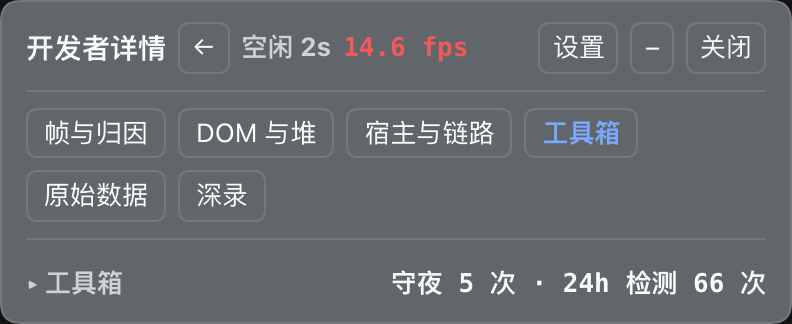
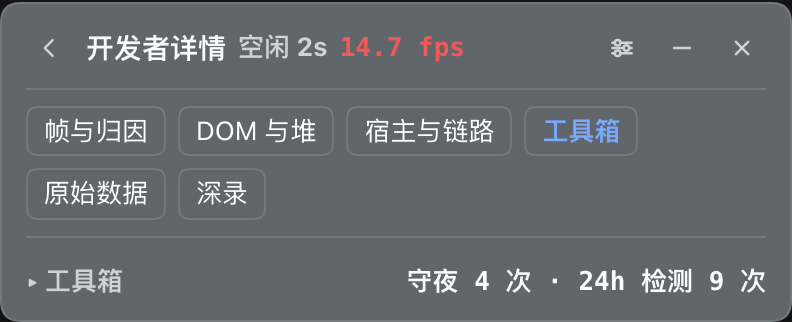
feat(client): 主界面重排成大数 + 帧条 + 事故块 + 趋势行
- 撤掉「当前状态 / 近 60 秒帧分布 / 最近一次卡顿 / 可能原因 / 最近 1 小时」五个眉标,
  层级交给 46px 大数、2px 色条与分隔线
- 60 秒帧条提到主界面(一格一秒,点得动),帧分布压成 3×2 的占比格
- 事故块:耗时用 ms(与详情页统一)、原因缩进挂在它下面、导出与「?」并到同一行
- 趋势窗口从「→ 最近 24 小时」按钮改成两格分段控件
- 删掉五个因此没人引用的词典键;更新验收器(图标按钮按 aria-label/title 找)

diff --git a/client.ui.js b/client.ui.js
@@ -210,6 +210,7 @@ window.__ModuleLoader__.load({
 			next: [['path', { d: 'M6.5 3.5L11 8l-4.5 4.5' }]],
 			copy: [['rect', { x: 5.5, y: 5.5, width: 7, height: 7, rx: 1.4 }], ['path', { d: 'M10.5 3.5h-6a1 1 0 00-1 1v6' }]],
 			download: [['path', { d: 'M8 2.5v7M5 6.8L8 9.8l3-3M3 11.5v1.2h10v-1.2' }]],
+			chev: [['path', { d: 'M6 3.5l4.5 4.5L6 12.5' }]],
 		};
 		function panelIcon(name, size) {
 			const spec = ICONS[name] ?? [];
@@ -267,71 +268,73 @@ window.__ModuleLoader__.load({
 			const trendMs = props.trendMs;
 			const trendRaw = trendRawText(trendMs);
 			// 60 秒帧分布:守夜只收 ≥100ms 的事故,"每帧 50ms 的 20fps 段"一条都不会触发。
-			// 独立一块 + 五行表:一条长串塞进 396px 只会被浏览器在 `16.7–` 中间乱断。
 			const mix = frameMixNow();
 			const mixRows = frameMixRows(mix);
-			const kids = [
-				h('div', { style: S.block, title: health.reason === '' ? t('healthHint') : health.reason },
-					h('div', { style: S.blockLabel }, t('mainStatus')),
-					h('div', {
-						style: {
-							...S.blockValue,
-							color: health.level === 'ok' ? 'var(--dsw-alias-state-success-primary)'
-								: health.level === 'stall' ? 'var(--dsw-alias-state-warn-primary)' : 'var(--dsw-alias-label-secondary)',
-						},
-					}, `${healthIcon(health.level)} ${healthText(health.level)} · ${health.fps.toFixed(0)} fps${health.reason === '' ? '' : ` · ${health.reason}`}`)),
-			];
-			// 帧分布:每档一行(标签 / 条数 / 占比),数字右对齐、等宽数字,读起来是张表而不是一句话
-			kids.push(h('div', { style: S.sep, title: t('frameMixHint') },
-				h('div', { style: S.blockLabel }, mix === null
-					? t('frameMix')
-					: `${t('frameMix')} · ${frameMixCountText(mix.total)}${t('framesUnit')}`),
-				mix === null
-					? h('div', { style: { ...S.sub, marginTop: 2 } }, t('frameMixEmpty'))
-					: h('div', { style: { marginTop: 2 } }, mixRows.map((item) => h('div', {
-						key: item.label,
-						style: { display: 'flex', gap: 8, alignItems: 'baseline', lineHeight: 1.5, fontSize: 12 },
-					},
-						h('span', { style: { flex: '0 0 72px', color: 'var(--dsw-alias-label-secondary)', fontVariantNumeric: 'tabular-nums' } }, item.label),
-						h('span', { style: { flex: '1 1 auto' } }),
-						h('span', { style: { flex: '0 0 56px', textAlign: 'right', fontVariantNumeric: 'tabular-nums' } }, item.countText),
-						h('span', { style: { flex: '0 0 64px', textAlign: 'right', fontVariantNumeric: 'tabular-nums' } }, item.pctText))))));
-			// 最近一次卡顿:持续时间 / 何时 / 现场留没留住
+			const kids = [];
+
+			// ① 当前帧率:这一屏唯一的大数。状态词退到它下面,而且**只在不是 ok 时**出现 ——
+			//    "健康"两个字只是把绿颜色再说一遍。
+			kids.push(h('div', { style: S.heroBlock, title: health.reason === '' ? t('healthHint') : health.reason },
+				h('div', { style: { ...S.heroNum, color: levelFrame(state.fps, state.frameWorst) } },
+					state.fps.toFixed(1), h('span', { style: S.heroUnit }, 'fps')),
+				health.level === 'ok' ? null : h('div', { style: S.heroState },
+					`${healthIcon(health.level)} ${healthText(health.level)}${health.reason === '' ? '' : ` · ${health.reason}`}`)));
+
+			// ② 60 秒帧条(一格一秒;点得动 —— 只有真能跳到那一格的长帧才给手型)。
+			kids.push(h('div', { style: S.stripWrap, title: t('sparkHint') }, sparkStrip()));
+
+			// ③ 帧分布:帧条的合计。占比在前、档位与条数在后,六格两行 —— 不再是一条 44 字的长串。
+			kids.push(mix === null
+				? h('div', { style: S.mixEmpty }, t('frameMixEmpty'))
+				: h('div', { style: S.mixGrid, title: t('frameMixHint') },
+					mixRows.map((item) => h('div', { key: item.label, style: S.mixCell },
+						h('b', { style: S.mixPct }, item.pctText),
+						h('span', { style: S.mixLabel }, `${item.label} · ${item.countText}`)))));
+
+			// ④ 最近一次卡顿:主角是"多久";原因缩进挂在它下面 —— 从属关系由位置表达,
+			//    不再写「最近一次卡顿 / 可能原因」两个眉标。
 			if (row === null) {
-				kids.push(h('div', { style: S.sep },
-					h('div', { style: S.blockLabel }, t('mainLast')),
-					h('div', { style: { ...S.blockValue, color: 'var(--dsw-alias-label-secondary)' } }, t('noStallYet'))));
+				kids.push(h('div', { style: S.emptyRow }, t('noStallYet')));
 			} else {
 				const level = severityLevel(row.severity);
-				kids.push(h('div', { style: S.sep },
-					h('div', { style: S.blockLabel }, t('mainLast')),
-					h('div', { style: { display: 'flex', alignItems: 'baseline', gap: 8, flexWrap: 'wrap' } },
-						h('span', { style: { ...S.hero, color: severityColor(level) } }, secondsText(row.severity)),
-						h('span', { style: { ...S.label, color: severityColor(level) } }, severityText(level))),
-					h('div', { style: S.sub }, lastStallSubText(row)),
-					h('div', { style: S.buttons },
-						h('button', { type: 'button', style: S.btn, onClick: () => props.onOpen(row.id) }, t('viewThisStall')),
-						// 这是**给 AI 的那条路**:先出预览(写明脱了什么),再生成
-						h('button', { type: 'button', style: S.btn, title: t('exportAiHint'), onClick: () => props.onExportPreview(row.id) }, t('exportReport')))));
-			}
-			// 可能原因:最多 3 条。**普通用户看到的只有"线索类别 + 强度"** ——
-			// 原始包名 / 毫秒 / 支持证据收进「为什么这样判断?」展开区(要查的时候够得着)。
-			// 展开区里那句限制一直在:不编模块功能,也不把相关写成根因。
-			kids.push(h('div', { style: S.sep },
-				h('div', { style: S.blockLabel }, t('mainCause')),
-				causes.length === 0
-					? h('div', { style: { ...S.blockValue, color: 'var(--dsw-alias-label-secondary)' } }, row === null ? t('noCauseYet') : t('packNoCandidate'))
-					: h('div', null, causes.map((item, index) => h('div', { key: `${index}-${item.kind}`, style: S.block },
-						h('div', { style: S.blockLabel }, `${index + 1}. ${causePlainLead(item)} · ${strengthText(item.strength)}`),
-						props.why !== true ? null : h('div', null,
+				const color = severityColor(level);
+				kids.push(h('div', {
+					style: { ...S.incBlock, borderLeftColor: color },
+					title: t('viewThisStall'),
+					onClick: () => props.onOpen(row.id),
+				},
+					h('div', { style: S.incMain },
+						h('span', { style: { ...S.incDur, color } },
+							String(Math.round(row.severity)), h('span', { style: S.incUnit }, 'ms')),
+						h('span', { style: { ...S.incSev, color } }, severityText(level)),
+						h('span', { style: S.incMeta }, lastStallSubText(row)),
+						h('button', {
+							type: 'button', className: 'picon', style: S.iconBtnSmall,
+							title: t('causeWhyHint'),
+							'aria-label': props.why === true ? t('causeWhyHide') : t('causeWhy'),
+							onClick: (event) => { event.stopPropagation(); props.onWhy(props.why !== true); },
+						}, props.why === true ? '–' : '?'),
+						h('button', {
+							type: 'button', className: 'picon', style: S.iconBtnSmall, title: t('exportAiHint'),
+							'aria-label': t('exportReport'),
+							onClick: (event) => { event.stopPropagation(); props.onExportPreview(row.id); },
+						}, panelIcon('download')),
+						panelIcon('chev', 12)),
+					h('div', { style: S.causes },
+						causes.length === 0
+							? h('div', { style: S.cause }, row === null ? t('noCauseYet') : t('packNoCandidate'))
+							: causes.map((item, index) => h('div', { key: `${index}-${item.kind}`, style: S.cause },
+								h('span', { style: S.causeN }, String(index + 1)),
+								h('span', { style: S.causeText }, causePlainLead(item)),
+								h('span', { style: S.causeStrength }, strengthText(item.strength)))),
+						// 原始线索(包名 / 毫秒 / 证据 / 限制)仍然够得着:一个小 ? 按钮,不占正文。
+						props.why === true ? causes.map((item, index) => h('div', { key: `why-${index}`, style: { ...S.sub, marginTop: 4 } },
 							h('div', { style: { ...S.sub, color: 'var(--dsw-alias-label-secondary)' } }, t('causeRawNote')),
 							h('div', { style: { ...S.sub, fontFamily: MONO_FONT } }, `${item.lead}${item.name === null ? '' : ` · ${short(item.name)}`} · ${t('packProvenance')}:${provenanceText(item.provenance)}`),
-							// 支持 / 限制各占一行:塞进一行会被折在词中间(§5「长文本用块式」)
 							h('div', { style: S.sub }, `${t('packSupport')}:${item.basis.join(' / ')}`),
-							h('div', { style: S.sub }, `${t('packLimits')}:${item.limits.join(' / ')}`))))),
-				causes.length === 0 ? null : h('div', { style: S.buttons },
-					h('button', { type: 'button', style: S.btn, title: t('causeWhyHint'), onClick: () => props.onWhy(props.why !== true) },
-						props.why === true ? t('causeWhyHide') : t('causeWhy')))));
+							h('div', { style: S.sub }, `${t('packLimits')}:${item.limits.join(' / ')}`))) : null,
+						)));
+			}
 			// 分享前预览:还没生成文件,先把"包含什么 / 脱了什么 / 少了什么"摊出来
 			if (props.preview !== null && props.preview !== undefined) {
 				const preview = props.preview;
@@ -345,19 +348,26 @@ window.__ModuleLoader__.load({
 						h('button', { type: 'button', style: S.btn, onClick: () => props.onExportGo() }, t('previewGo')),
 						h('button', { type: 'button', style: S.btn, onClick: () => props.onExportCancel() }, t('previewCancel')))));
 			}
-			// 最近趋势:次数 / 最长一次 / 重复线索 —— 窗口可切(1 小时 / 24 小时)
-			kids.push(h('div', { style: S.sep },
-				h('div', { style: { ...S.row, marginTop: 0 } },
-					h('span', { style: S.label }, trendMs === TALLY_TREND_LONG_MS ? t('mainTrend24') : t('mainTrend1')),
-					h('button', { type: 'button', style: S.btn, title: t('trendSwitchHint'), onClick: () => props.onRange(trendMs === TALLY_TREND_LONG_MS ? TALLY_TREND_SHORT_MS : TALLY_TREND_LONG_MS) },
-						`→ ${trendMs === TALLY_TREND_LONG_MS ? t('mainTrend1') : t('mainTrend24')}`)),
-				h('div', { style: S.blockValue, title: t('trendHint') }, trendText(trendMs)),
-				props.why !== true ? null : (trendRaw === null ? null : h('div', { style: { ...S.sub, fontFamily: MONO_FONT } }, trendRaw)),
-				h('div', { style: S.sub }, t('trendScope'))));
-			// 入口:只留一个 —— 「设置」在标题栏里常驻(每个视图都在),主界面再放一个就是同一个动作
-			// 在同屏出现两次。
-			kids.push(h('div', { style: { ...S.sep, display: 'flex', gap: 8, flexWrap: 'wrap' } },
-				h('button', { type: 'button', style: S.btn, title: t('devEntryHint'), onClick: () => props.onDev() }, t('devEntry'))));
+			// ⑤ 最近趋势:次数 / 最长一次 / 重复线索。窗口切换改成两格分段控件,
+			//    原来是"→ 最近 24 小时"这种带箭头的文字按钮(它把"当前"和"目标"写在同一个位置上)。
+			kids.push(h('div', { style: S.trendRow, title: t('trendScope') },
+				h('span', { style: S.trendText }, trendText(trendMs)),
+				h('div', { style: S.seg },
+					h('button', {
+						type: 'button', style: { ...S.segItem, ...(trendMs !== TALLY_TREND_LONG_MS ? S.segOn : null) },
+						title: t('mainTrend1'), onClick: () => props.onRange(TALLY_TREND_SHORT_MS),
+					}, t('mainTrend1')),
+					h('button', {
+						type: 'button', style: { ...S.segItem, ...(trendMs === TALLY_TREND_LONG_MS ? S.segOn : null) },
+						title: t('mainTrend24'), onClick: () => props.onRange(TALLY_TREND_LONG_MS),
+					}, t('mainTrend24')))));
+			if (props.why === true && trendRaw !== null) {
+				kids.push(h('div', { style: { ...S.sub, fontFamily: MONO_FONT } }, trendRaw));
+			}
+			// 入口:只留一个 —— 「设置」在标题栏里常驻(每个视图都在),主界面再放一个就是同一个动作。
+			kids.push(h('div', { style: S.linkRow },
+				h('button', { type: 'button', style: S.linkBtn, title: t('devEntryHint'), onClick: () => props.onDev() },
+					t('devEntry'), panelIcon('chev', 11))));
 			return kids;
 		}
 		/**
@@ -1231,7 +1241,7 @@ window.__ModuleLoader__.load({
 					h('span', { style: S.brand, title: t('title') }, view === 'main' ? t('title') : viewTitle),
 					// 场景标签与标题一样是**文字**,一样可以让位(先出省略号):不变的是控件。
 					h('span', { style: { ...S.label, color: scene.color, flex: '0 1 auto', minWidth: 0, overflow: 'hidden', textOverflow: 'ellipsis' } }, scene.text),
-					h('span', { style: { ...S.num, flex: '0 0 auto', color: levelFrame(state.fps, state.frameWorst) } }, `${state.fps.toFixed(1)} fps`)),
+					view === 'main' ? null : h('span', { style: { ...S.num, flex: '0 0 auto', color: levelFrame(state.fps, state.frameWorst) } }, `${state.fps.toFixed(1)} fps`)),
 				h('div', { style: S.headRight },
 					h('button', { type: 'button', className: 'picon', style: S.iconBtn, title: t('settingsHint'), 'aria-label': t('viewSettings'), onClick: () => setView(view === 'settings' ? 'main' : 'settings') }, panelIcon('sliders')),
 					h('button', { type: 'button', className: 'picon', style: S.iconBtn, title: open ? t('collapse') : t('expand'), 'aria-label': open ? t('collapse') : t('expand'), onClick: toggle }, panelIcon(open ? 'minus' : 'plus')),

diff --git a/client.js b/client.js
@@ -3188,6 +3188,45 @@ window.__ModuleLoader__.load({
 			},
 			cardTitle: { color: 'var(--dsw-alias-label-primary)', fontWeight: 700, fontSize: 13, marginBottom: 2 },
 			buttons: { display: 'flex', gap: 8, marginTop: 7, flexWrap: 'wrap' },
+			// ── 主界面(2026-10-24 改版):大数 + 帧条 + 事故块 + 趋势,眉标全部撤掉 ──
+			heroBlock: { marginTop: 10 },
+			heroNum: {
+				display: 'flex', alignItems: 'baseline', gap: 7, fontFamily: MONO_FONT,
+				fontWeight: 600, fontSize: 46, lineHeight: 0.94, letterSpacing: '-0.03em', fontVariantNumeric: 'tabular-nums',
+			},
+			heroUnit: { fontSize: 11, fontWeight: 600, letterSpacing: '0.08em', color: 'var(--dsw-alias-label-secondary)' },
+			heroState: { marginTop: 6, fontSize: 11, color: 'var(--dsw-alias-label-secondary)' },
+			// 帧条下面压一条基准线:数据稀疏(刚刷新)时,没有它那几根柱子会像浮在空中的色块。
+			stripWrap: { marginTop: 11, borderBottom: '1px solid var(--dsw-alias-border-l2)', paddingBottom: 3 },
+			mixGrid: { display: 'grid', gridTemplateColumns: '1fr 1fr 1fr', gap: '5px 8px', marginTop: 10 },
+			mixCell: { display: 'flex', alignItems: 'baseline', gap: 5, minWidth: 0 },
+			mixPct: { fontFamily: MONO_FONT, fontSize: 12, fontWeight: 600, fontVariantNumeric: 'tabular-nums', color: 'var(--dsw-alias-label-primary)' },
+			mixLabel: { fontSize: 10, color: 'var(--dsw-alias-label-secondary)', whiteSpace: 'nowrap', overflow: 'hidden', textOverflow: 'ellipsis' },
+			mixEmpty: { marginTop: 10, fontSize: 11, color: 'var(--dsw-alias-label-secondary)' },
+			incBlock: { marginTop: 14, borderLeft: '2px solid transparent', paddingLeft: 11, cursor: 'pointer' },
+			incMain: { display: 'flex', alignItems: 'baseline', gap: 7 },
+			incDur: { fontFamily: MONO_FONT, fontSize: 24, fontWeight: 600, letterSpacing: '-0.02em', fontVariantNumeric: 'tabular-nums', lineHeight: 1.1 },
+			incSev: { fontSize: 11, fontWeight: 600 },
+			incUnit: { fontSize: 13, fontWeight: 600, marginLeft: 1, color: 'var(--dsw-alias-label-secondary)' },
+			incMeta: { marginLeft: 'auto', fontSize: 10, color: 'var(--dsw-alias-label-secondary)', fontVariantNumeric: 'tabular-nums', whiteSpace: 'nowrap' },
+			causes: { marginTop: 8, display: 'flex', flexDirection: 'column', gap: 4 },
+			cause: { display: 'flex', alignItems: 'baseline', gap: 7, fontSize: 12 },
+			causeN: { fontSize: 10, color: 'var(--dsw-alias-label-secondary)', width: 9, flex: '0 0 auto', fontVariantNumeric: 'tabular-nums' },
+			causeText: { flex: '1 1 auto', minWidth: 0, whiteSpace: 'nowrap', overflow: 'hidden', textOverflow: 'ellipsis' },
+			causeStrength: { fontSize: 10, color: 'var(--dsw-alias-label-secondary)', flex: '0 0 auto' },
+			iconBtnSmall: {
+				width: 20, height: 20, padding: 0, display: 'grid', placeItems: 'center',
+				background: 'transparent', border: 0, borderRadius: 5, cursor: 'pointer',
+				color: 'var(--dsw-alias-label-secondary)', flex: '0 0 auto',
+			},
+			trendRow: { display: 'flex', alignItems: 'center', gap: 9, marginTop: 12, paddingTop: 11, borderTop: '1px solid var(--dsw-alias-border-l2)' },
+			trendText: { flex: '1 1 auto', minWidth: 0, fontSize: 12, fontVariantNumeric: 'tabular-nums', lineHeight: 1.5, whiteSpace: 'normal' },
+			seg: { display: 'flex', gap: 2, padding: 2, borderRadius: 7, background: 'var(--dsw-alias-bg-layer-2)', flex: '0 0 auto' },
+			segItem: { font: 'inherit', fontSize: 11, padding: '2px 8px', borderRadius: 5, border: 0, background: 'transparent', color: 'var(--dsw-alias-label-secondary)', cursor: 'pointer' },
+			segOn: { background: 'var(--dsw-alias-bg-overlay)', color: 'var(--dsw-alias-label-primary)', fontWeight: 600 },
+			linkRow: { display: 'flex', justifyContent: 'flex-end', marginTop: 10, paddingTop: 10, borderTop: '1px solid var(--dsw-alias-border-l2)' },
+			linkBtn: { display: 'inline-flex', alignItems: 'center', gap: 3, border: 0, background: 'transparent', padding: 0, fontSize: 11, color: 'var(--dsw-alias-label-secondary)', cursor: 'pointer' },
+			emptyRow: { marginTop: 14, fontSize: 12, color: 'var(--dsw-alias-label-secondary)' },
 			input: { font: 'inherit', color: 'var(--dsw-alias-label-primary)', background: 'transparent', border: '1px solid var(--dsw-alias-border-l2)', borderRadius: 7, padding: '2px 8px', flex: 1, minWidth: 0 },
 		};
 

diff --git a/client.i18n.js b/client.i18n.js
@@ -176,12 +176,10 @@ window.__ModuleLoader__.load({
 				hudOff: 'HUD 已关闭', loafOff: 'LoAF 未装上',
 				healthOk: '运行流畅', healthStall: '刚才有卡顿', healthLimited: '监测受限',
 				healthHint: '看的是最近 60 秒:帧间隔与长动画帧的档位(与面板判色同一套阈值)',
-				mainStatus: '当前状态', mainLast: '最近一次卡顿', mainCause: '可能原因',
-				frameMix: '近 60 秒帧分布',
 				frameMixHint: '帧间隔分档 ≤16.7 / 16.7–20 / 20–33.3 / 33.3–50 / 50–100 / ≥100ms(固定 60 秒窗口,与 60 秒帧条同一段):每档给条数与占比,占比两位小数(3600 帧里 1 条 = 0.03%);rAF 间隙不是帧,不计入分母。',
 				frameMixEmpty: '这一分钟还没有帧',
 				mainTrend1: '最近 1 小时', mainTrend24: '最近 24 小时',
-				trendSwitchHint: '在这两个窗口之间切换(计数跨刷新保存)', trendHint: '检测到几次 / 最长一次 / 重复线索 —— 三个数各有各的口径',
+				trendHint: '检测到几次 / 最长一次 / 重复线索 —— 三个数各有各的口径',
 				trendScope: '计数是"检测到几次卡顿"(同一串算一次);重复线索只数留存下来的现场,所以它不会比实际更严重',
 				noStallYet: '暂未记录到明显卡顿,仍在后台观察。', noCauseYet: '还没有抓到事故,先让它继续观察。',
 				trendNone: '这段时间没有检测到卡顿', trendRepeat: '重复线索', stallSuffix: '卡顿',
@@ -393,12 +391,10 @@ window.__ModuleLoader__.load({
 				hudOff: 'HUD is off', loafOff: 'LoAF not available',
 				healthOk: 'Running smoothly', healthStall: 'A stall just happened', healthLimited: 'Monitoring limited',
 				healthHint: 'Last 60 seconds: frame interval and long animation frame levels (same thresholds as the panel colours)',
-				mainStatus: 'Current status', mainLast: 'Most recent stall', mainCause: 'Possible cause',
-				frameMix: 'frame mix, last 60s',
 				frameMixHint: 'frames by interval ≤16.7 / 16.7–20 / 20–33.3 / 33.3–50 / 50–100 / ≥100ms (fixed 60s window, same as the 60s strip): each band lists count and share, shares to two decimals (1 in 3600 frames = 0.03%); rAF gaps are not frames and are excluded.',
 				frameMixEmpty: 'no frames in this minute yet',
 				mainTrend1: 'Last hour', mainTrend24: 'Last 24 hours',
-				trendSwitchHint: 'Switch between the two windows (counts survive a reload)', trendHint: 'How many / the longest / a repeating lead — three numbers with three different calibers',
+				trendHint: 'How many / the longest / a repeating lead — three numbers with three different calibers',
 				trendScope: 'The count is "stalls detected" (one burst counts once); the repeating lead only counts evidence that was kept, so it never overstates',
 				noStallYet: 'No noticeable stall recorded yet — still watching in the background.', noCauseYet: 'Nothing captured yet; let it keep watching.',
 				trendNone: 'No stall detected in this window', trendRepeat: 'Repeating lead', stallSuffix: ' stalls',
